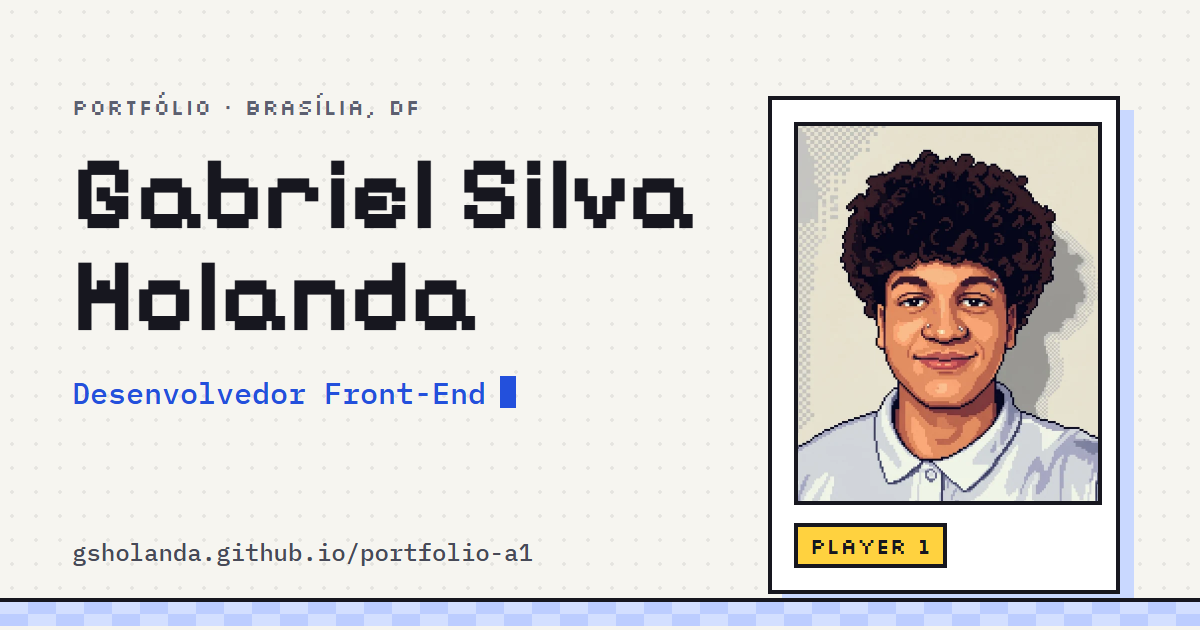
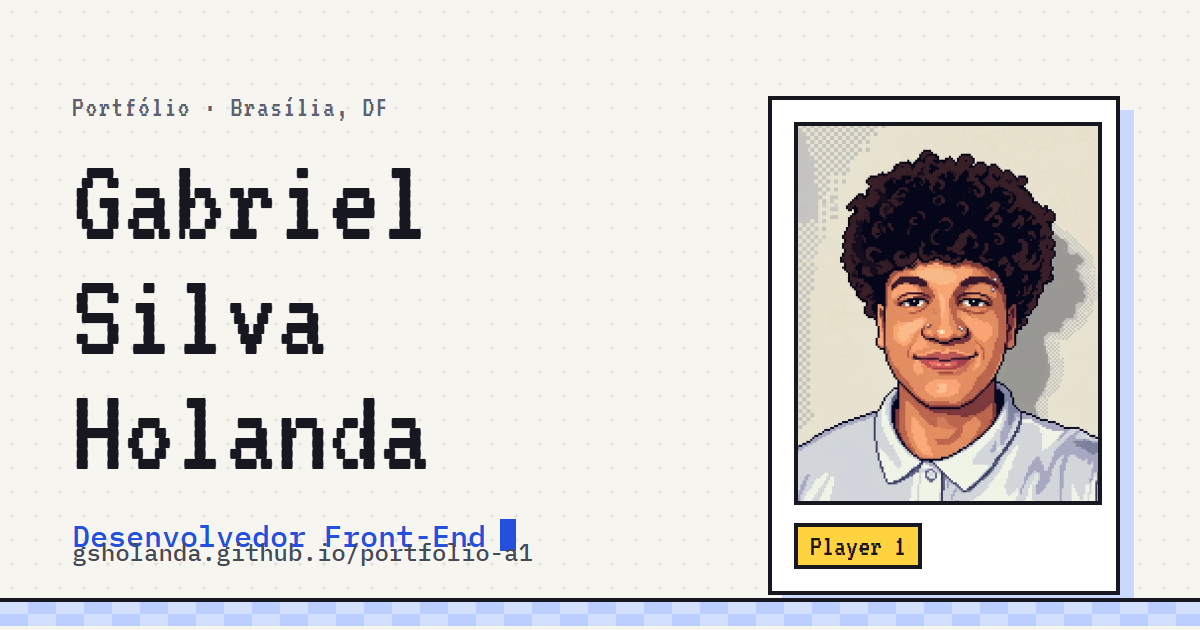
Fonte VT323 nos títulos, rótulos e botões
Substitui Pixelify Sans e Silkscreen pela VT323, com tamanhos ajustados,
e atualiza a imagem de compartilhamento.

diff --git a/css/styles.css b/css/styles.css
@@ -28,8 +28,8 @@
   --barra-texto: #e8e9ee;
   --ponto: rgba(23, 23, 31, 0.07);
 
-  --fonte-pixel: "Pixelify Sans", "Trebuchet MS", system-ui, sans-serif;
-  --fonte-rotulo: "Silkscreen", "Courier New", ui-monospace, monospace;
+  --fonte-pixel: "VT323", "Courier New", ui-monospace, monospace;
+  --fonte-rotulo: "VT323", "Courier New", ui-monospace, monospace;
   --fonte-texto: "IBM Plex Sans", system-ui, -apple-system, "Segoe UI", Roboto, sans-serif;
   --fonte-mono: "IBM Plex Mono", ui-monospace, "Cascadia Mono", Consolas, monospace;
 
@@ -96,6 +96,7 @@ body {
 }
 
 h1, h2, h3, h4, p, ul, ol, dl, dd, figure { margin: 0; }
+h1, h2, h3, h4 { font-synthesis: none; }
 ul, ol { padding: 0; list-style: none; }
 img { display: block; max-width: 100%; height: auto; }
 [hidden] { display: none !important; }
@@ -138,6 +139,7 @@ code {
 
 .pular {
   position: absolute;
+  font-size: 1.3rem;
   left: 16px;
   top: -120px;
   z-index: 100;
@@ -152,7 +154,7 @@ code {
 
 .rotulo {
   font-family: var(--fonte-rotulo);
-  font-size: 0.82rem;
+  font-size: 1.25rem;
   letter-spacing: 0.04em;
   text-transform: uppercase;
   color: var(--texto-3);
@@ -181,8 +183,8 @@ code {
   max-width: 22ch;
   margin-top: 14px;
   font-family: var(--fonte-pixel);
-  font-size: clamp(1.9rem, 1.2rem + 2.6vw, 3.1rem);
-  font-weight: 600;
+  font-size: clamp(2.3rem, 1.5rem + 3.2vw, 3.9rem);
+  font-weight: 400;
   line-height: 1.1;
   text-wrap: balance;
 }
@@ -196,7 +198,7 @@ code {
   padding: 0 20px;
   border: 2px solid var(--borda);
   font-family: var(--fonte-rotulo);
-  font-size: 1rem;
+  font-size: 1.3rem;
   line-height: 1.1;
   white-space: nowrap;
   text-transform: uppercase;
@@ -248,13 +250,13 @@ code {
   background: var(--azul-botao);
   box-shadow: 2px 2px 0 var(--sombra-botao);
   font-family: var(--fonte-rotulo);
-  font-size: 0.85rem;
+  font-size: 1.15rem;
   color: #fff;
 }
 .marca__nome {
   font-family: var(--fonte-pixel);
-  font-size: 1.3rem;
-  font-weight: 600;
+  font-size: 1.65rem;
+  font-weight: 400;
   white-space: nowrap;
 }
 
@@ -290,7 +292,7 @@ code {
   box-shadow: 3px 3px 0 var(--sombra-botao);
   color: var(--texto);
   font-family: var(--fonte-rotulo);
-  font-size: 0.95rem;
+  font-size: 1.25rem;
   text-transform: uppercase;
   cursor: pointer;
 }
@@ -430,9 +432,9 @@ code {
 .hero__nome {
   margin-top: 18px;
   font-family: var(--fonte-pixel);
-  font-size: clamp(2.8rem, 1.5rem + 5.6vw, 6rem);
-  font-weight: 700;
-  line-height: 0.98;
+  font-size: clamp(3.4rem, 1.9rem + 6.6vw, 7.4rem);
+  font-weight: 400;
+  line-height: 0.92;
   text-wrap: balance;
 }
 
@@ -497,7 +499,7 @@ code {
   border: 2px solid var(--borda);
   background: var(--amarelo);
   font-family: var(--fonte-rotulo);
-  font-size: 0.82rem;
+  font-size: 1.1rem;
   font-weight: 400;
   text-transform: uppercase;
   color: #17171f;
@@ -505,8 +507,8 @@ code {
 .jogador__nome {
   margin-top: 10px;
   font-family: var(--fonte-pixel);
-  font-size: 1.55rem;
-  font-weight: 600;
+  font-size: 1.95rem;
+  font-weight: 400;
   line-height: 1.1;
 }
 .jogador__local {
@@ -533,8 +535,8 @@ code {
 .stats__item:last-child { padding-bottom: 0; border-bottom: 0; }
 .stats__valor {
   font-family: var(--fonte-pixel);
-  font-size: clamp(1.8rem, 1.5rem + 1.2vw, 2.3rem);
-  font-weight: 600;
+  font-size: clamp(2.3rem, 1.9rem + 1.5vw, 2.9rem);
+  font-weight: 400;
   line-height: 1;
 }
 .stats dd {
@@ -575,7 +577,7 @@ code {
 .retrato figcaption {
   margin-top: 14px;
   font-family: var(--fonte-rotulo);
-  font-size: 0.75rem;
+  font-size: 1.1rem;
   text-transform: uppercase;
   color: var(--texto-3);
 }
@@ -610,7 +612,7 @@ code {
 .ferramentas { display: grid; gap: 16px; }
 .ferramentas dt {
   font-family: var(--fonte-rotulo);
-  font-size: 0.8rem;
+  font-size: 1.05rem;
   text-transform: uppercase;
 }
 .ferramentas dd { font-size: 0.95rem; color: var(--texto-2); }
@@ -639,7 +641,7 @@ code {
   box-shadow: 3px 3px 0 var(--sombra-botao);
   color: var(--texto);
   font-family: var(--fonte-rotulo);
-  font-size: 0.95rem;
+  font-size: 1.2rem;
   text-transform: uppercase;
   cursor: pointer;
   transition: transform 0.08s ease, box-shadow 0.08s ease;
@@ -750,7 +752,7 @@ code {
 }
 .projeto__num {
   font-family: var(--fonte-rotulo);
-  font-size: 0.85rem;
+  font-size: 1.1rem;
 }
 .projeto__contexto { font-family: var(--fonte-mono); font-size: 0.78rem; }
 
@@ -760,7 +762,7 @@ code {
   padding: 2px 8px;
   border: 2px solid var(--borda);
   font-family: var(--fonte-rotulo);
-  font-size: 0.75rem;
+  font-size: 1.08rem;
   text-transform: uppercase;
   color: var(--texto);
 }
@@ -770,8 +772,8 @@ code {
 
 .projeto__titulo {
   font-family: var(--fonte-pixel);
-  font-size: clamp(1.55rem, 1.25rem + 1vw, 2.05rem);
-  font-weight: 600;
+  font-size: clamp(1.95rem, 1.6rem + 1.2vw, 2.6rem);
+  font-weight: 400;
   line-height: 1.12;
 }
 .projeto__resumo { max-width: 60ch; color: var(--texto-2); }
@@ -785,7 +787,7 @@ code {
 .caso__item { display: grid; align-content: start; gap: 4px; }
 .caso dt {
   font-family: var(--fonte-rotulo);
-  font-size: 0.75rem;
+  font-size: 1.12rem;
   text-transform: uppercase;
   color: var(--texto-3);
 }
@@ -835,7 +837,7 @@ code {
 .diagrama__titulo,
 .como-funciona__titulo {
   font-family: var(--fonte-rotulo);
-  font-size: 0.75rem;
+  font-size: 1.12rem;
   text-transform: uppercase;
   color: var(--texto-3);
 }
@@ -879,7 +881,7 @@ code {
   display: block;
   margin-bottom: 2px;
   font-family: var(--fonte-rotulo);
-  font-size: 0.7rem;
+  font-size: 1.02rem;
   text-transform: uppercase;
   color: var(--texto-3);
 }
@@ -894,8 +896,8 @@ code {
 .exemplos { display: grid; gap: 28px; }
 .exemplo__titulo {
   font-family: var(--fonte-pixel);
-  font-size: 1.35rem;
-  font-weight: 600;
+  font-size: 1.7rem;
+  font-weight: 400;
   line-height: 1.2;
 }
 .exemplo .caso { margin-top: 12px; }
@@ -918,8 +920,8 @@ code {
 }
 .curso__nome {
   font-family: var(--fonte-pixel);
-  font-size: clamp(1.4rem, 1.15rem + 1vw, 1.95rem);
-  font-weight: 600;
+  font-size: clamp(1.75rem, 1.4rem + 1.3vw, 2.4rem);
+  font-weight: 400;
   line-height: 1.2;
 }
 .curso__local { color: var(--texto-2); }
@@ -957,7 +959,7 @@ code {
 }
 .titulo-secao--grande {
   max-width: 16ch;
-  font-size: clamp(2.2rem, 1.4rem + 3.6vw, 4.2rem);
+  font-size: clamp(2.7rem, 1.7rem + 4.4vw, 5.2rem);
 }
 .contato__texto {
   max-width: 46ch;
@@ -1005,8 +1007,8 @@ code {
 .canal__nome {
   grid-area: nome;
   font-family: var(--fonte-pixel);
-  font-size: 1.6rem;
-  font-weight: 600;
+  font-size: 2rem;
+  font-weight: 400;
   line-height: 1.2;
 }
 .canal__endereco {
@@ -1122,7 +1124,7 @@ code {
   .projeto--destaque .janela { border-bottom: 0; }
   .projeto--destaque .janela img { aspect-ratio: 2.2 / 1; }
   .projeto--destaque .projeto__corpo { padding: 40px 44px 44px; gap: 22px; }
-  .projeto--destaque .projeto__titulo { font-size: clamp(2rem, 1.3rem + 1.6vw, 2.8rem); }
+  .projeto--destaque .projeto__titulo { font-size: clamp(2.5rem, 1.7rem + 2vw, 3.4rem); }
   .projeto--destaque .projeto__resumo { font-size: 1.12rem; }
   .projeto--destaque .caso {
     grid-template-columns: repeat(3, minmax(0, 1fr));

diff --git a/index.html b/index.html
@@ -24,7 +24,7 @@
 
   <link rel="preconnect" href="https://fonts.googleapis.com">
   <link rel="preconnect" href="https://fonts.gstatic.com" crossorigin>
-  <link rel="stylesheet" href="https://fonts.googleapis.com/css2?family=IBM+Plex+Mono:wght@400;500&family=IBM+Plex+Sans:ital,wght@0,400;0,500;0,600;1,400&family=Pixelify+Sans:wght@500;600;700&family=Silkscreen&display=swap">
+  <link rel="stylesheet" href="https://fonts.googleapis.com/css2?family=IBM+Plex+Mono:wght@400;500&family=IBM+Plex+Sans:ital,wght@0,400;0,500;0,600;1,400&family=VT323&display=swap">
   <link rel="stylesheet" href="css/styles.css">
 
   <script src="js/main.js"></script>
